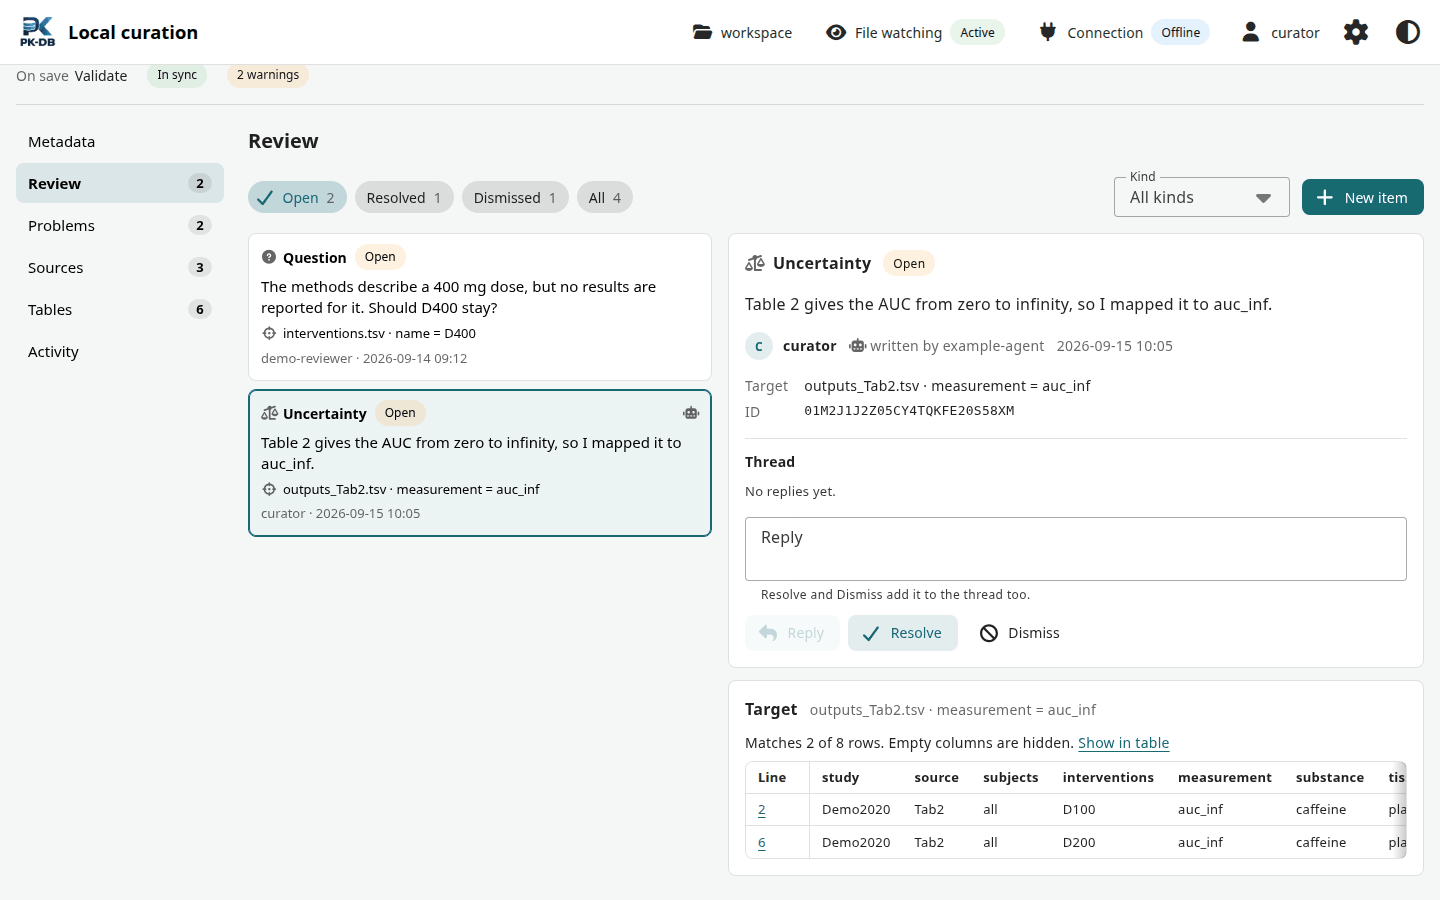
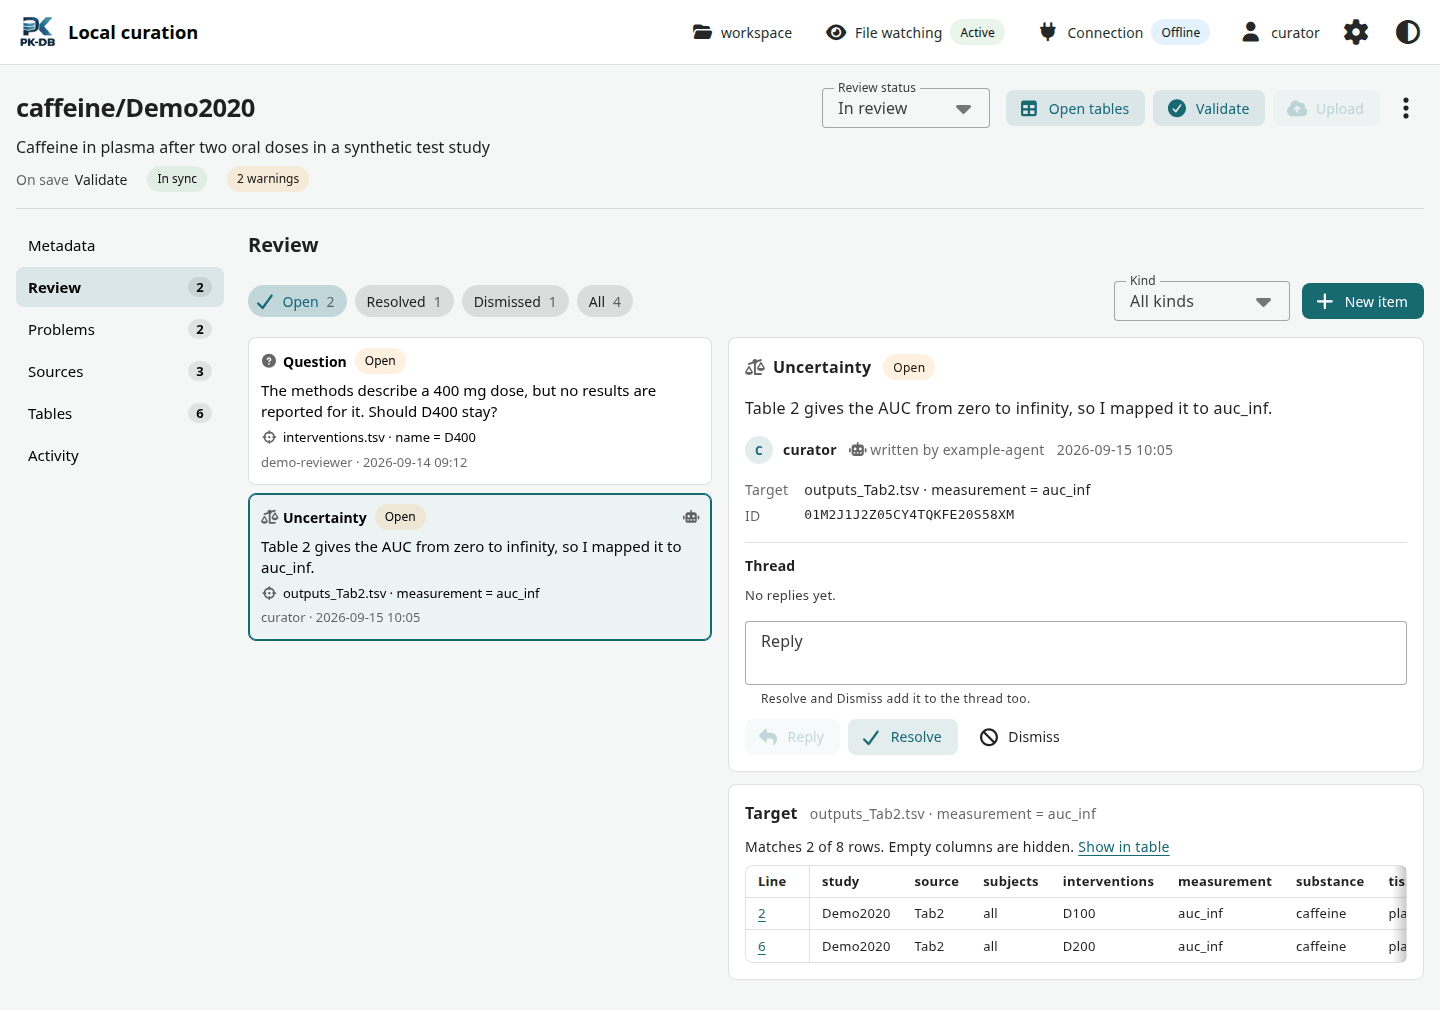
Show the study header in the screenshots and render them deterministically
The review and sources screenshots are taller now (1010 and 1100 pixels) and taken from the top, so that the study header shows with the whole review target and the whole figure; the README says so. The renderer waits for the content of each image, for loaded images, closed menus, no running animation and tab bars that stood still for two frames, instead of a fixed delay and network idle. It aligns a scrolled tab bar so that a whole tab starts at its left edge, captures the conflict after its job ended, and replaces the launch token in its error messages.

The guide no longer names the planned pkdb release command, matches the reply field to the actions of open and resolved items, adds the status Not checked yet, describes both cases of digitized_mismatch, says which columns sort, documents PKDB_OPEN_COMMAND and links the section of the browser tests.

diff --git a/docs/local-curation.md b/docs/local-curation.md
@@ -83,7 +83,7 @@ The overview lists the study format 2 folders of the workspace by their identity
 | On save | What a save does, see [What happens on save](#what-happens-on-save). |
 | Last upload | The time of the last upload, with a link to the study on PK-DB. |
 
-**Search studies** matches the identity and the title, and **Substance** shows one substance. The status chips **All**, **Needs attention**, **Draft**, **In review** and **Approved** count their studies. **Needs attention** lists the studies with errors, with a sync conflict, or with open items while they are in review. Click a column header to sort, and click a row to open the study.
+**Search studies** matches the identity and the title, and **Substance** shows one substance. The status chips **All**, **Needs attention**, **Draft**, **In review** and **Approved** count their studies. **Needs attention** lists the studies with errors, with a sync conflict, or with open items while they are in review. Click a column header to sort by it; every column except Curators sorts. Click a row to open the study.
 
 Select studies with their checkboxes for the batch actions above the table. **Validate** queues a validation of each. **Upload** shows the server, the account and the studies, and then validates and uploads them. **On save** with **Apply** sets the On save action of the selected studies. Upload needs a connected server and the API key of an account that may upload studies; the disabled button says what is missing.
 
@@ -104,7 +104,7 @@ The Metadata section edits `study.json` in forms.
 - **Reference**: the PMID and the DOI, whether `reference.json` matches them, and the title, the authors and the journal of `reference.json`. **Correct title, authors, journal...** opens the Reference dialog.
 - **People**: the creator, the curators with a rating from 0 to 5 stars in half steps, and the collaborators, offered from the curator roster.
 - **Access and provenance**: the licence, open or closed, and the access, public or private; public needs a release. The provenance is a manual curation, or an automatic curation with its method, version, run ID and assets. A data import is shown as the importer set it.
-- **Issue and release**: read only, set by `pkdb release`.
+- **Issue and release**: read only. They are set when the study is released; the `pkdb release` command for this is planned.
 - **Descriptions and comments**, and **Notes per table** for each kind of table. A comment records the user who wrote it.
 
 Edits stay in the form until you save them. The bar at the bottom shows **Unsaved changes in study.json** with **Save** and **Discard**, and **Undo** brings discarded edits back for a few seconds. Leaving the section with unsaved changes asks first. **Save** checks the whole document and writes it. When it is not valid, nothing is written and the fields with problems are marked. A new PMID or DOI fetches `reference.json` for it; when the lookup fails, `study.json` is saved and the bar says why.
@@ -119,7 +119,7 @@ The Review section lists the items of `review.json`: questions, uncertainties an
 
 [![The Review section with two open items, the selected uncertainty written by an AI agent, its thread and actions, and the two rows of outputs_Tab2.tsv that it targets.](images/curation/review.png)](images/curation/review.png)
 
-Filter the items by state (**Open**, **Resolved**, **Dismissed**, **All**) and by kind. A card shows the kind, the state, the target, the code of an acknowledged warning, a robot for an item of an AI agent, and the number of replies. Select a card to see the item with its thread. **Reply**, **Resolve**, **Dismiss** and **Reopen** change it. Resolve and Dismiss also add the text of the reply field to the thread. **New item** adds an item about the whole study, a file, the rows with given column values, or a column.
+Filter the items by state (**Open**, **Resolved**, **Dismissed**, **All**) and by kind. A card shows the kind, the state, the target, the code of an acknowledged warning, a robot for an item of an AI agent, and the number of replies. Select a card to see the item with its thread. **Reply**, **Resolve**, **Dismiss** and **Reopen** change it. For an open item, Resolve and Dismiss also add the text of the reply field to the thread; for a resolved item, Dismiss and Reopen do. A dismissed item has no reply field and can only be reopened. **New item** adds an item about the whole study, a file, the rows with given column values, or a column.
 
 Below the item, the target shows the rows that it matches, with **Show in table**. When the target is a series of a digitized figure, the `label` of `timecourses_<Fig>.tsv` or the `name` of `scatters_<Fig>.tsv`, the figure is drawn too, with that series emphasized and the other series faded.
 
@@ -160,6 +160,7 @@ The Tables section starts with the sync status of the workbook `<name>.xlsx` and
 | Conflict | The workbook and the tables changed the same rows. |
 | No workbook | The study has no workbook yet. **Open tables** creates it. |
 | Unknown | The workbook or the tables cannot be read. |
+| Not checked yet | The app has not checked the workbook and the tables yet. |
 
 When the workbook and the tables conflict, the panel **Conflicting rows** shows the rows of each conflicting table in one grid: the rows of the last sync, the rows of the workbook and the lines of the TSV file. The columns that differ come first and are marked. **Keep workbook** or **Keep tables** resolves all conflicts with one side. To combine both, edit the rows in the workbook, save it, and keep the workbook. **Open workbook** opens it. Validation and upload wait until the conflict is resolved.
 
@@ -216,7 +217,7 @@ pkdb digitize import /path/to/studies/caffeine/Demo2020 Fig1 Demo2020_Fig1.tar
 
 The command takes a project `.json` file or a saved `.tar` project, checks it against the image, and writes `<name>_<source>.wpd.json`. When the study has no image yet and the `.tar` project holds exactly one PNG image, it writes the image too. Name each dataset after its series: the `label` of a timecourse for its central values, `<label>;error_bar` for the ends of its error bars, and the `name` of a scatter for its points.
 
-The Sources section then draws the digitized points and the mapped rows on the image. Validation warns about a dataset without rows (`unknown_dataset`) and about a mapped row more than 2 pixels away from every point of its dataset (`digitized_mismatch`). `pkdb plot` draws the same comparison into PNG files, for agents. See [Raw extraction](study-format.md#raw-extraction) for the accepted projects.
+The Sources section then draws the digitized points and the mapped rows on the image. Validation warns about a dataset without rows (`unknown_dataset`). It also warns, as `digitized_mismatch`, about a mapped row more than 2 pixels away from every point of its dataset, and about the points of a dataset that have no mapped row within 2 pixels. `pkdb plot` draws the same comparison into PNG files, for agents. See [Raw extraction](study-format.md#raw-extraction) for the accepted projects.
 
 ## AI-curated studies
 
@@ -258,7 +259,7 @@ uv run --project python pkdb curate /path/to/workspace --no-browser --port 43117
 PKDB_CURATION_URL=http://127.0.0.1:43117 npm run dev:curation
 ```
 
-Then open `http://localhost:8090/` followed by the `#token=...` part of the launch URL that `pkdb curate` printed. The browser tests of the app run against the real `pkdb curate`; see [Local setup](installation.md).
+Then open `http://localhost:8090/` followed by the `#token=...` part of the launch URL that `pkdb curate` printed. The browser tests of the app run against the real `pkdb curate`; see [Native frontend and frontend checks](installation.md#native-frontend-and-frontend-checks).
 
 ## Troubleshooting
 
@@ -270,3 +271,4 @@ Then open `http://localhost:8090/` followed by the `#token=...` part of the laun
 | Unable to start curation. Application state must be outside the selected source workspace | Choose a `--state-dir` outside the workspace. |
 | The header offers **Set user**. | Set your PK-DB user in **Settings**, or start the app with `--user` or `PKDB_USER`. |
 | **Upload** is disabled. | Hover it to see why: offline mode, no API key, no connected server, or an account that may not upload. |
+| **Open tables**, **Open folder**, **Open PDF** or **Open** opens nothing, or the wrong program. | The app opens files with `xdg-open` on Linux, `open` on macOS and the file associations on Windows. To use another command, set `PKDB_OPEN_COMMAND` before you start the app, for example `PKDB_OPEN_COMMAND='gio open'`. The app splits it like a shell command and adds the absolute path of the file or folder as the last argument. The command must exit within 15 seconds, so use one that starts the program and returns. |

diff --git a/tools/curation_docs/README.md b/tools/curation_docs/README.md
@@ -1,6 +1,6 @@
 # Curation app screenshots and benchmarks
 
-`render.mjs` renders the screenshots of [the local curation app guide](../../docs/local-curation.md) into `docs/images/curation/`: `overview.png`, `review.png`, `sources.png`, `metadata.png` and `tables-conflict.png`, in the light theme at 1440 x 900 pixels. It drives the real app of a running `pkdb curate` in Chromium by roles and labels. The app runs on a copy of the synthetic fixture workspace of the browser tests (`tools/curation_testing/fixture`), so the images show no real publication or account.
+`render.mjs` renders the screenshots of [the local curation app guide](../../docs/local-curation.md) into `docs/images/curation/`: `overview.png`, `review.png`, `sources.png`, `metadata.png` and `tables-conflict.png`, in the light theme, 1440 pixels wide. Most are 900 pixels high; `review.png` is 1010 and `sources.png` 1100 pixels high, so that they show the study header together with the whole review target or the whole figure. It drives the real app of a running `pkdb curate` in Chromium by roles and labels. The app runs on a copy of the synthetic fixture workspace of the browser tests (`tools/curation_testing/fixture`), so the images show no real publication or account.
 
 The renderer changes the workspace: for `tables-conflict.png` it edits the same cell of `caffeine/Demo2020` in the workbook and in `timecourses_Fig1.tsv`. Start every run from a fresh copy.
 
@@ -24,7 +24,7 @@ In a second terminal, pass the launch URL that `pkdb curate` printed, before any
 PKDB_CURATION_URL='http://127.0.0.1:PORT/#token=LAUNCH_TOKEN' node tools/curation_docs/render.mjs
 ```
 
-The renderer accepts only a launch URL on a loopback address and never prints it. It waits for the first validation, writes the five images, and quantizes them to 256 colors with `optimize_png.py`, which keeps them small without a visible change. Set `PKDB_CURATION_SCREENSHOTS` to a folder to write the images there instead. Stop `pkdb curate` with Ctrl+C afterwards, and look at every image before you commit it.
+The renderer accepts only a launch URL on a loopback address. It never prints the launch token: an error message shows `<launch token>` in its place. Before each image it waits until the app shows the expected content, no menu is open and nothing moves. It writes the five images and quantizes them to 256 colors with `optimize_png.py`, which keeps them small without a visible change. Set `PKDB_CURATION_SCREENSHOTS` to a folder to write the images there instead. Stop `pkdb curate` with Ctrl+C afterwards, and look at every image before you commit it.
 
 Validation performance can be measured offline with `python/.venv/bin/python tools/curation_docs/benchmark_validation.py /path/to/studies`. See [measured timings and optimization opportunities](../../docs/benchmarks/curation-validation-2026-09-24.md).
 
